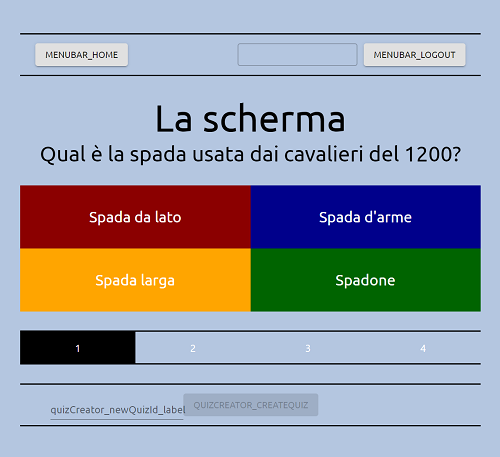
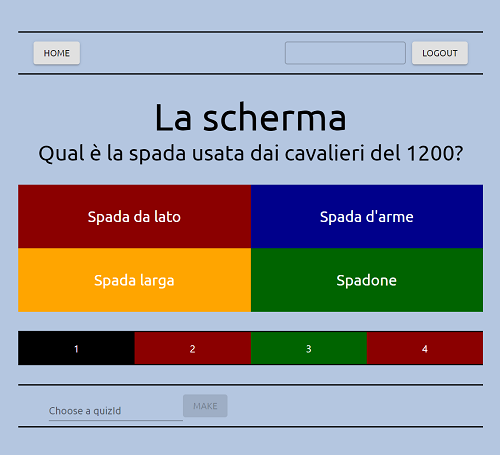
English translation

diff --git a/src/locales/english.js b/src/locales/english.js
@@ -29,16 +29,33 @@ const dates = {
 }
 
 const translation = {
-  login_title: 'Inizio',
-  login_text: 'Inserisci i tuoi dati',
-  login_name: 'Nome',
-  login_check_button: 'Avvia',
-  answers_title: 'Risultati',
-  answers_correctAnswers01: 'Hai risposto correttamente a ',
-  answers_correctAnswers02: ' domande',
-  answers_text: 'Bravissimo! Continua così!',
+  answers_title: 'Results',
+  answers_correctAnswers01: 'You answered correctly to ',
+  answers_correctAnswers02: ' questions',
+  answers_text: 'Good job!',
+  login_title: 'Start',
+  login_text: 'Select a quiz',
+  login_name: 'Name',
+  login_check_button: 'Start',
+  login_quizSelector_label: 'Select a quiz',
+  login_results_button: 'Results',
+  login_editor_button: 'Editor',
+  menuBar_home: 'Home',
+  menuBar_login: 'Login',
+  menuBar_logout: 'Logout',
+  quizCreator_newQuizId_label: 'Choose a quizId',
+  quizCreator_createQuiz: 'Make',
+  quizCreator_quizIdAlreadyUser_error: 'Quiz id already used',
+  quizEditor_questionText_label: 'Question',
+  quizEditor_save_button: 'Save',
+  quizEditor_answerText_label: 'Answer',
+  quizEditor_quizTitle_label: 'Quiz title',
+  quizEditor_answersTime_label: 'Max time of answers',
+  resultsTable_date_label: 'Date',
+  resultsTable_name_label: 'Name',
+  resultsTable_results_label: 'Results',
+  resultsTable_title: 'Table of results of the quiz "',
 }
-
 const toPrice = price => {
   return String(price.toFixed(2))
 }
